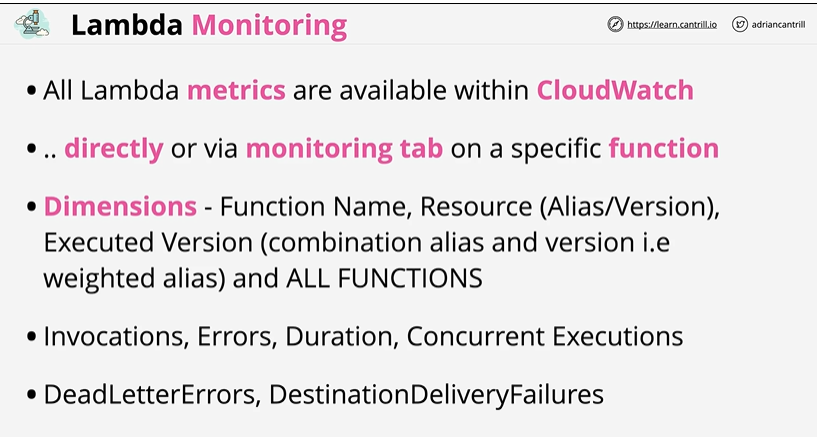
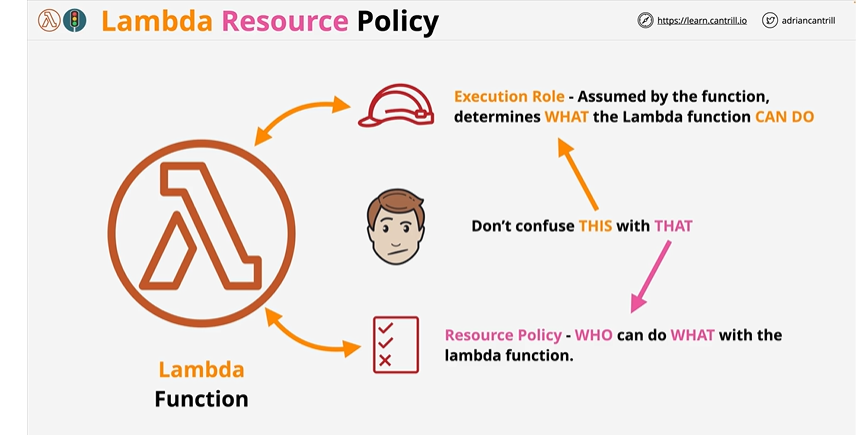
lambda notes

Changed region(s): [[0.0306, 0.1793, 0.9486, 0.9563], [0.0, 0.0, 1.0, 0.0897], [0.7344, 0.6276, 0.765, 0.7172]]

diff --git a/XV-1. AWS Lambda in Depth/07 . Lambda Monitoring, Logging & Tracing.md b/XV-1. AWS Lambda in Depth/07 . Lambda Monitoring, Logging & Tracing.md
@@ -1,12 +1,199 @@
 # Lambda Monitoring, Logging, Tracing
 
 ## Overview
-![img_7.png](img_7.png)
+![img_7.png](Images/img_7.png)
 Monitoring - focuses on metrics which means telemetry data and lambda injects all data or all functions into cloudwatch.
 
-![img_8.png](img_8.png)
+![img_8.png](Images/img_8.png)
 Logging - lambda sends its execution log through to cloudwatch logs. stdout or stderr would be logged. log groups created which would be using log stream. Permission provided via execution role.
 
-![img_9.png](img_9.png)
+![img_9.png](Images/img_9.png)
 Tracing - X ray provides the visibility of the flow of requests through your application(those using API gateway or lambda). Enable 'Active Tracing' on a lambda function(this makes XRay available in the lambda execution environment). Can also be enabled via the CLI. To use Xray within a lambda function , permission is required which gets delivered via execution role. Need to ensure that via managed policy AWSXRayDaemonWriteAccess is provided as part of the execution role. XRay then could be used in execution environment. 
 > AWS_XRAY_DAEMON_ADDRESS - Environment variable - provide details about the Xray running in execution environment.
+
+# 🚀 **1. ENABLE MONITORING (CloudWatch Metrics)**
+
+### **CloudWatch Monitoring provides:**
+
+* CPU, Network, Memory, Disk (for EC2 & Containers)
+* Invocation counts, duration, errors (for Lambda)
+* API Gateway latency, 4xx/5xx errors
+
+---
+
+## **1.1 Enable Monitoring for EC2**
+
+✓ EC2 instances automatically send basic metrics every 5 minutes.
+If you want **detailed monitoring (1-minute metrics)**:
+
+**Steps**
+
+1. Go to **AWS Console → EC2 → Instances**.
+2. Select the instance.
+3. Choose **Actions → Monitor and troubleshoot → Manage CloudWatch monitoring**.
+4. Enable **Detailed Monitoring**.
+5. Click **Save**.
+
+---
+
+## **1.2 Enable Monitoring for Lambda**
+
+Lambda metrics are automatically sent to CloudWatch:
+
+* Invocations
+* Errors
+* Duration
+* Throttles
+
+No setup required.
+
+To view:
+
+1. Open **Lambda → Monitor** tab.
+2. View metrics dashboard, traces, logs.
+
+---
+
+## **1.3 Enable Monitoring for API Gateway**
+
+1. Go to **API Gateway**.
+2. Select your API.
+3. Choose **Stages**.
+4. Select your stage (e.g., `prod`).
+5. Under **Logs/Tracing**, enable:
+
+    * ✔ CloudWatch Metrics
+    * ✔ Detailed Metrics
+
+---
+
+# 📜 **2. ENABLE LOGGING (CloudWatch Logs)**
+
+CloudWatch Logs store logging output from AWS services.
+
+---
+
+## **2.1 Enable Logging for Lambda**
+
+Logging is automatic if your Lambda has the correct IAM role:
+
+### **Required IAM permissions**
+
+Your Lambda execution role must have:
+
+```json
+{
+  "Effect": "Allow",
+  "Action": [
+    "logs:CreateLogGroup",
+    "logs:CreateLogStream",
+    "logs:PutLogEvents"
+  ],
+  "Resource": "*"
+}
+```
+
+### **Steps to View Logs**
+
+1. Open **Lambda → Monitor → Logs**.
+2. This links to **CloudWatch → Log Groups → /aws/lambda/<function-name>**.
+
+---
+
+## **2.2 Enable Logging for API Gateway**
+
+1. Go to **API Gateway → Stages → prod**.
+2. Under **Logs/Tracing**, enable:
+
+    * ✔ Enable CloudWatch Logs
+    * ✔ Log level (ERROR / INFO)
+    * ✔ Full Request/Response Logs (optional)
+
+API Gateway will automatically create log groups.
+
+---
+
+## **2.3 Enable Logging for EC2 (CloudWatch Agent)**
+
+EC2 does NOT automatically send OS-level logs.
+
+You must install the CloudWatch Agent:
+
+**Steps**
+
+1. SSH into EC2.
+2. Install CloudWatch Agent (Amazon Linux example):
+
+   ```bash
+   sudo yum install amazon-cloudwatch-agent -y
+   ```
+3. Configure:
+
+   ```bash
+   sudo /opt/aws/amazon-cloudwatch-agent/bin/amazon-cloudwatch-agent-config-wizard
+   ```
+4. Start agent:
+
+   ```bash
+   sudo systemctl start amazon-cloudwatch-agent
+   ```
+
+---
+
+# 🔍 **3. ENABLE TRACING (AWS X-Ray)**
+
+X-Ray helps visualize request flows across distributed systems (API Gateway → Lambda → DynamoDB).
+
+---
+
+## **3.1 Enable Tracing for Lambda**
+
+1. Open **Lambda**.
+2. Go to **Configuration → Monitoring and operations tools**.
+3. Under **X-Ray**, enable:
+
+    * ✔ Active tracing
+4. Save.
+
+Lambda now sends traces to X-Ray.
+
+---
+
+## **3.2 Enable Tracing for API Gateway**
+
+1. Open **API Gateway**.
+2. Go to **Stages → prod**.
+3. Under **Logs/Tracing**:
+
+    * ✔ Enable X-Ray Tracing
+4. Save.
+
+---
+
+## **3.3 Enable Tracing for ECS / EC2 / EKS**
+
+Install the **X-Ray Daemon** or Sidecar.
+
+**EC2 Example**
+
+```bash
+sudo yum install -y xray
+sudo systemctl enable xray
+sudo systemctl start xray
+```
+
+This allows applications to send trace segments to X-Ray.
+
+---
+
+# 🔑 Summary Table
+
+| AWS Component   | Monitoring                   | Logging                  | Tracing                 |
+| --------------- | ---------------------------- | ------------------------ | ----------------------- |
+| **Lambda**      | Auto-enabled                 | Auto (with IAM role)     | Enable “Active Tracing” |
+| **API Gateway** | Enable per stage             | Enable per stage         | Enable X-Ray            |
+| **EC2**         | Optional Detailed Monitoring | Install CloudWatch Agent | Install X-Ray Daemon    |
+| **ECS/EKS**     | CloudWatch Metrics           | Container Insights       | X-Ray Sidecar           |
+
+---
+

diff --git a/XV-1. AWS Lambda in Depth/08. Lambda Layers.md b/XV-1. AWS Lambda in Depth/08. Lambda Layers.md
@@ -1,0 +1,98 @@
+# Lambda Layers
+
+## Overview
+
+A layer is a .zip file archive that contains libraries, a custom runtime, or other dependencies. With layers, you can use libraries in your function without needing to include them in your deployment package.
+
+![img_10.png](Images/img_10.png)
+
+## Demo
+
+# **AWS Lambda Layers — Step-by-Step Configuration Guide**
+
+---
+# ✅ **PART 0 — Create a Lambda Function**
+
+Create a lambda function 
+
+```python
+import numpy as np
+from scipy.spatial import ConvexHull
+
+def lambda_handler(event, context):
+
+    print("\nUsing NumPy\n")
+
+    print("random matrix_a =")
+    matrix_a = np.random.randint(10, size=(4, 4))
+    print(matrix_a)
+
+    print("random matrix_b =")
+    matrix_b = np.random.randint(10, size=(4, 4))
+    print(matrix_b)
+
+    print("matrix_a * matrix_b = ")
+    print(matrix_a.dot(matrix_b))
+    print("\nUsing SciPy\n")
+
+    num_points = 10
+    print(num_points, "random points:")
+    points = np.random.rand(num_points, 2)
+    for i, point in enumerate(points):
+        print(i, '->', point)
+
+    hull = ConvexHull(points)
+    print("The smallest convex set containing all",
+        num_points, "points has", len(hull.simplices),
+        "sides,\nconnecting points:")
+    for simplex in hull.simplices:
+        print(simplex[0], '<->', simplex[1])
+```
+
+# ✅ **PART 1 — Create a Lambda Layer**
+
+## **Step 1: Prepare the Layer Content**
+
+A Lambda layer is just a ZIP file with libraries, binaries, or shared code.
+
+### **For Python**
+
+```
+python/
+    lib/
+       python3.12/
+           site-packages/
+               <packages>
+```
+---
+
+## **Step 2: Go to the Lambda Layers Console**
+
+AWS Console → **Lambda** → Left menu → **Layers** → **Create layer**
+
+## **Step 3: Add the Layer**
+
+Scroll down → **Layers** → **Add a layer**
+
+Options available:
+
+* **Custom layers** (your own)
+* **AWS provided layers** ✅ (Choose this)
+* **Layers from ARN**
+
+---
+
+## **Step 4: Choose the Version**
+
+Select:
+
+* AWS Layers
+* Layer version
+
+Click **Add**.
+
+Your layer is now attached to your Lambda function.
+
+---
+
+

diff --git a/XV-1. AWS Lambda in Depth/10. Lambda & ALB Integration.md b/XV-1. AWS Lambda in Depth/10. Lambda & ALB Integration.md
@@ -1,0 +1,20 @@
+# Lambda & Application Load Balancer
+
+## Overview
+
+You can use a Lambda function to process requests from an Application Load Balancer. Elastic Load Balancing supports Lambda functions as a target for an Application Load Balancer. Use load balancer rules to route HTTP requests to a function, based on path or header values. Process the request and return an HTTP response from your Lambda function.
+
+Elastic Load Balancing invokes your Lambda function synchronously with an event that contains the request body and metadata.
+
+## Detailed Architecture
+
+![img_13.png](Images/img_13.png)
+animalsearch function lets the user search for an animal via the name or id and retrieves information about those animals. ALB configured with the target group containing lambda function, when it receives a request from the client side, it synchronously invokes a request from the ALB. This means it invokes the lambda function passing in some data and waits for the response. ALB passes a json structure into the lambda function inside the event structure which every lambda function receives. Lambda function just needs to interpret that and generate response.
+
+Visually interaction looks like the following - 
+
+![img_14.png](Images/img_14.png)
+
+Multi Value header - 
+
+![img_15.png](Images/img_15.png)

diff --git a/XV-1. AWS Lambda in Depth/09. Lambda Container Images.md b/XV-1. AWS Lambda in Depth/09. Lambda Container Images.md
@@ -1,0 +1,15 @@
+# Lambda Container Images
+
+## Overview
+
+![img_11.png](Images/img_11.png)
+
+You can package your code and dependencies as a container image using tools such as the Docker command line interface (CLI). You can then upload the image to your container registry hosted on Amazon Elastic Container Registry (Amazon ECR).
+
+AWS provides a set of open-source base images that you can use to build the container image for your function code. You can also use alternative base images from other container registries. AWS also provides an open-source runtime client that you add to your alternative base image to make it compatible with the Lambda service.
+
+Additionally, AWS provides a runtime interface emulator for you to test your functions locally using tools such as the Docker CLI.
+
+## Detailed Architecture
+
+![img_12.png](Images/img_12.png)

diff --git a/XV-1. AWS Lambda in Depth/11. Lambda Resource Policy.md b/XV-1. AWS Lambda in Depth/11. Lambda Resource Policy.md
@@ -1,0 +1,23 @@
+# Lambda Resource Policy
+
+## Overview
+Lambda resource policies one of the two main ways of controlling access to lambda functions.
+
+![img_7.png](img_7.png)
+
+## Detailed Architecture
+
+![img_8.png](img_8.png)
+1. **Same account access(Account A)** - IAM user can invoke the lambda function if it is granted access via the identity policy. Also, if the lambda function provides a resource policy for it to access it then also the user will be able to invoke the lambda function.
+2. **Cross account access(Account A - Account B)** - Requires Identity Policy enabled (OUT) And Resource Policy(IN).
+
+## Steps :
+
+![img_9.png](img_9.png)
+
+![img_10.png](img_10.png)
+
+## Summary 
+
+![img_11.png](img_11.png)
+

diff --git a/XV-1. AWS Lambda in Depth/01. Lambda Handler Architecture - Part1.md b/XV-1. AWS Lambda in Depth/01. Lambda Handler Architecture - Part1.md
@@ -1,7 +1,7 @@
 # Lambda Function Handler -1 
 
 ## Overview
-![img.png](Images/img.png)
+![img_12.png](img_12.png)
 
 1. It is a FAAS.
 2. When run - it executes in an execution envrionment.
